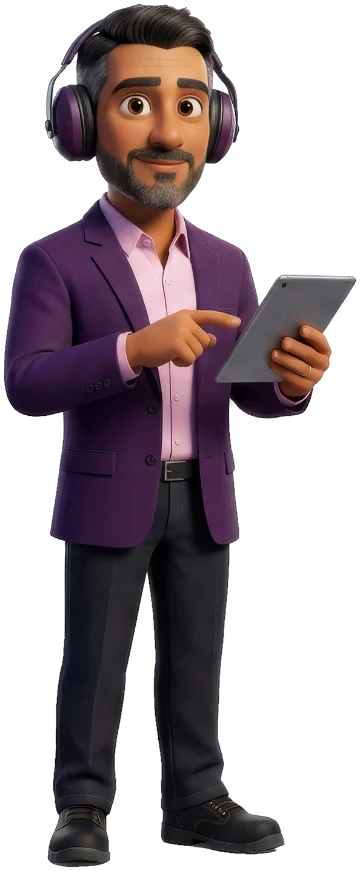
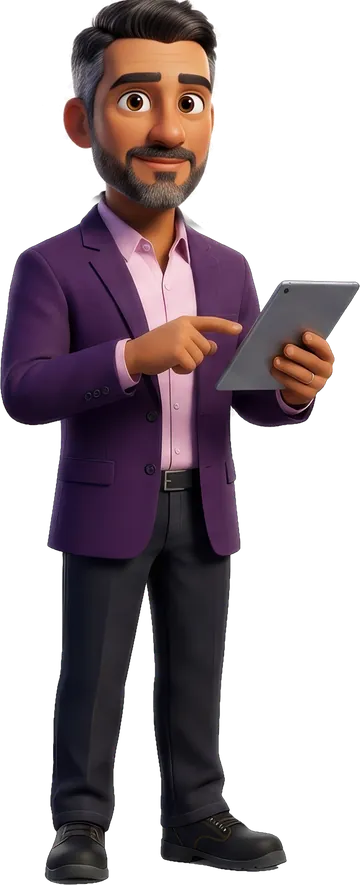
fix(hero, portais): a foto do hero entra uma vez só e novos avatares do Colaborador e do Gestor
Hero, o piscar da abertura. Medido quadro a quadro numa carga sem a introdução: a região da arte
saía de 38,6 (o roxo chapado), saltava para 81,6 num único quadro, continuava a clarear até 98 e
depois escurecia até 83,7. Era esse vaivém que se via como um piscar. A causa: o quadro da foto
desvanecia de 0 a 1 a partir da montagem, mas a foto só aparecia quando terminava de decodificar,
já no meio do desvanecimento. Agora a foto não desvanece, entra assim que chega (decoding sync) e
só a luz se desenha por cima; a mesma medição passa a ser 38,6 > 97,6 de uma vez e daí em diante só
os cartões escurecendo, sem inversões.

Junto, os pedidos de layer própria que vieram dos ajustes de Safari e que o WebKit trata mal:
- o SVG animado não pede mais will-change (ele não se move, e promover SVG faz o WebKit repintar
  em ladrilhos);
- o brilho que deriva não pede mais will-change à mão (a biblioteca cuida disso enquanto anima);
- o quadro mantém a layer da paralaxe, mas já não anima opacidade dentro dela;
- a largura do quadro ganha 100% no max(), como rede de segurança se as unidades de contentor
  ainda não tiverem sido medidas.

Portais, avatares:
- Portal do Colaborador: sai o técnico de colete e entra um jovem de camisa com a marca Natcorp
  bordada no peito e o celular na mão;
- Portal do Gestor: o protetor auricular sai da ilustração;
- os textos alternativos passam a descrever o papel, não a pessoa.

Claude-Session: https://claude.ai/code/session_01TiLCRrKfz83ETsQu88ppWy

diff --git a/src/components/hero/HeroScene.tsx b/src/components/hero/HeroScene.tsx
@@ -52,7 +52,13 @@ export function HeroScene({ on, reduced, y, scale }: HeroSceneProps) {
   const wait = prev.looped ? 0 : 1
   return (
     <div ref={root} className="absolute inset-0" aria-hidden>
-      {/* o quadro que cobre a seção (no celular, só a parte de cima): imagem e arte no mesmo sistema de coordenadas */}
+      {/*
+        O quadro que cobre a seção (no celular, só a parte de cima): imagem e arte no mesmo sistema de coordenadas.
+        A foto não desvanece na entrada. Quando desvanecia, o desvanecimento começava com a montagem e a foto só
+        aparecia quando terminava de decodificar, já no meio do caminho: via-se o roxo chapado, a foto entrando de
+        uma vez, o quadro continuando a clarear e depois escurecendo com os cartões. Era esse vaivém que se lia
+        como um piscar. Agora a foto entra uma vez só, assim que chega, e só a luz se desenha por cima.
+      */}
       <div className="absolute inset-x-0 top-0 h-[62%] overflow-hidden [container-type:size] lg:h-full">
         <m.div
           className="absolute [--fx:84%] [--fy:50%] lg:[--fx:62%] lg:[--fy:45%]"
@@ -60,16 +66,15 @@ export function HeroScene({ on, reduced, y, scale }: HeroSceneProps) {
             left: 'var(--fx)',
             top: 'var(--fy)',
             translate: 'calc(var(--fx) * -1) calc(var(--fy) * -1)',
-            width: `max(100cqw, calc(100cqh * ${(W / H).toFixed(4)}))`,
+            // cobre o contentor pelo lado que faltar; o 100% é a rede de segurança para o navegador
+            // que ainda não tiver medido o contentor (sem ele, o quadro nasceria com largura zero)
+            width: `max(100%, 100cqw, calc(100cqh * ${(W / H).toFixed(4)}))`,
             aspectRatio: `${W} / ${H}`,
             y,
             scale,
             // o quadro tem layer própria: a paralaxe da rolagem só recompõe, sem repintar a foto
             willChange: 'transform',
           }}
-          initial={{ opacity: 0 }}
-          animate={on ? { opacity: 1 } : { opacity: 0 }}
-          transition={{ duration: 1.4, ease: EASE }}
         >
           <img
             src={heroV2}
@@ -79,7 +84,7 @@ export function HeroScene({ on, reduced, y, scale }: HeroSceneProps) {
             width={W}
             height={H}
             fetchPriority="high"
-            decoding="async"
+            decoding="sync"
             draggable={false}
             className="absolute inset-0 h-full w-full"
           />
@@ -169,8 +174,10 @@ export function HeroScene({ on, reduced, y, scale }: HeroSceneProps) {
             />
           </svg>
 
-          {/* camada em movimento, numa layer própria do compositor: o que anima a cada quadro fica separado da foto e dos traços parados */}
-          <svg viewBox={`0 0 ${W} ${H}`} preserveAspectRatio="none" className="absolute inset-0 h-full w-full overflow-visible will-change-transform">
+            {/* camada em movimento, separada da foto e dos traços parados: o que anima a cada quadro repinta sozinho.
+              Sem will-change aqui: este SVG não se move, e promover um SVG a layer própria faz o WebKit
+              repintá-lo em ladrilhos, o que aparece como um tremular. */}
+          <svg viewBox={`0 0 ${W} ${H}`} preserveAspectRatio="none" className="absolute inset-0 h-full w-full overflow-visible">
             <defs>
               <linearGradient id="hv2-glass" x1="0" y1="0" x2="1" y2="1">
                 <stop offset="0" stopColor="#F3C9DA" stopOpacity="0.28" />
@@ -284,10 +291,10 @@ export function HeroScene({ on, reduced, y, scale }: HeroSceneProps) {
 
       {/* brilho que deriva devagar do lado do texto, para o roxo respirar.
           Entra já em 0.45, o mesmo valor em que o laço começa e termina: sem isso o brilho aparecia com a
-          opacidade cheia do CSS e depois caía em degraus, o que se via como um piscar na abertura. */}
+          opacidade cheia do CSS e depois caía em degraus, o que se via como um piscar na abertura.
+          Sem will-change à mão: a biblioteca pede a layer só enquanto anima. */}
       <m.div
         className="absolute left-[-12%] top-[18%] h-[95%] w-[58%] rounded-full bg-[radial-gradient(closest-side,rgba(201,87,136,0.26),rgba(201,87,136,0.1)_45%,rgba(201,87,136,0)_100%)]"
-        style={{ willChange: 'transform, opacity' }}
         initial={{ x: '0%', y: '0%', opacity: 0.45 }}
         animate={loop ? { x: ['0%', '14%', '0%'], y: ['0%', '-12%', '0%'], opacity: [0.45, 0.85, 0.45] } : { x: '0%', y: '0%', opacity: 0.45 }}
         transition={loop ? { duration: 14, ease: 'easeInOut', repeat: Infinity } : { duration: 1.2, ease: EASE }}

diff --git a/src/pages/PortalHubPage.tsx b/src/pages/PortalHubPage.tsx
@@ -23,7 +23,7 @@ import { clientLogo, greeting, hubPath, portalApps, portalHost, portalUrl, type 
 import { paths, siteConfig } from '@/content/site'
 import { EASE, viewportOnce } from '@/lib/motion'
 import { cn } from '@/lib/utils'
-import figureRafael from '@/assets/portals/figure-rafael.webp'
+import figureColaborador from '@/assets/portals/figure-colaborador.webp'
 import figureMarcos from '@/assets/portals/figure-marcos.webp'
 import figureBeatriz from '@/assets/portals/figure-beatriz.webp'
 import iconCandidato from '@/assets/portals/icons/quadro-de-vagas.svg'
@@ -32,9 +32,9 @@ import iconChamado from '@/assets/portals/icons/chamado-interno.svg'
 
 /** Quem ilustra cada portal do sistema: os personagens da jornada, na mesma família 3D da NATI. */
 const figures: Partial<Record<PortalApp['key'], { src: string; alt: string }>> = {
-  colaborador: { src: figureRafael, alt: 'Rafael, técnico de segurança, com o celular na mão' },
-  gestor: { src: figureMarcos, alt: 'Marcos, gerente de produção, de blazer roxo' },
-  operador: { src: figureBeatriz, alt: 'Beatriz, analista de admissão, com o notebook' },
+  colaborador: { src: figureColaborador, alt: 'Colaborador de camisa com a marca Natcorp, com o celular na mão' },
+  gestor: { src: figureMarcos, alt: 'Gestor de blazer roxo, com o tablet na mão' },
+  operador: { src: figureBeatriz, alt: 'Analista do RH com o notebook na mão' },
 }
 
 /** Ícones dos aplicativos e serviços: os mesmos ícones de módulo da marca. */
